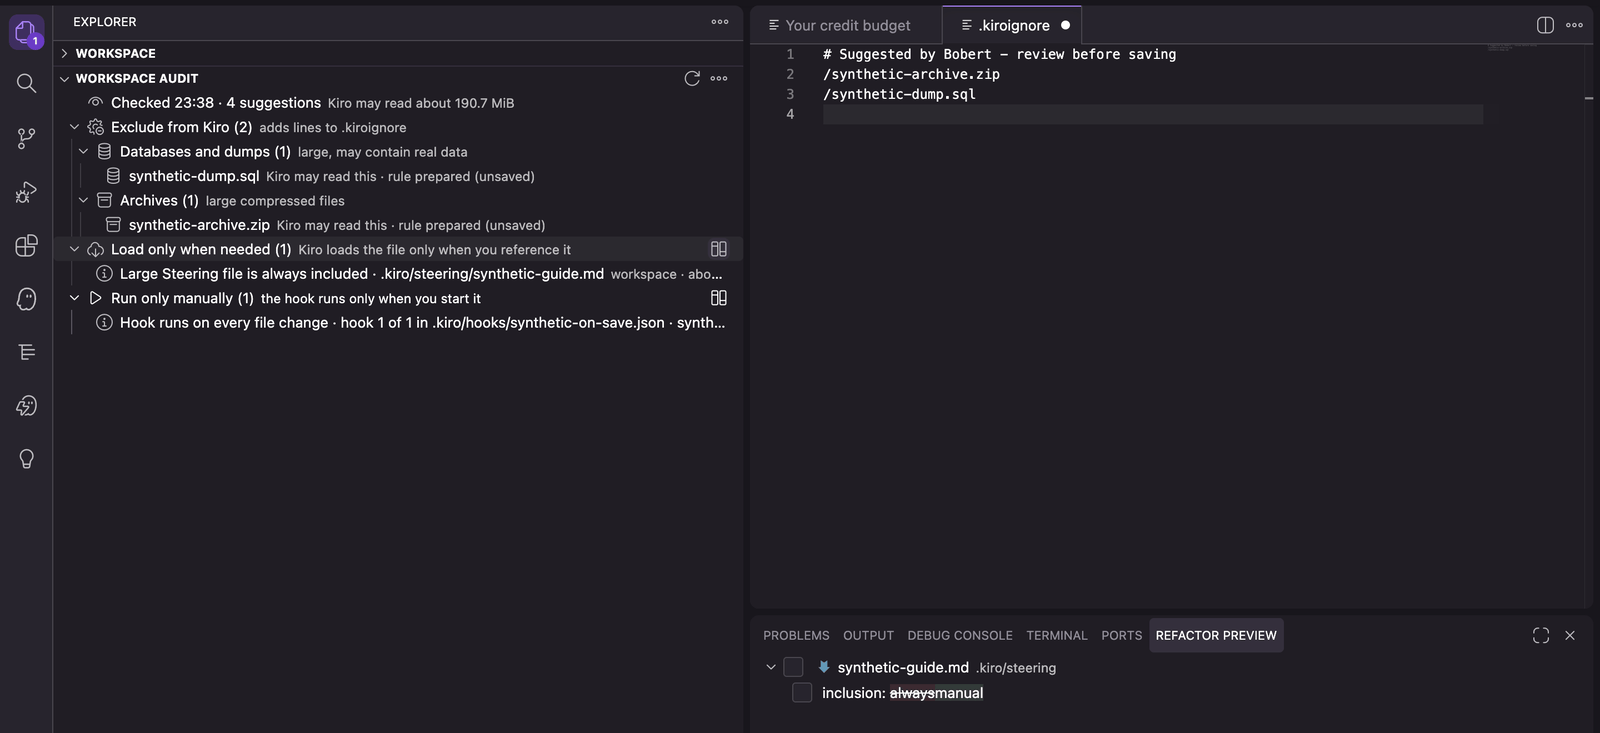
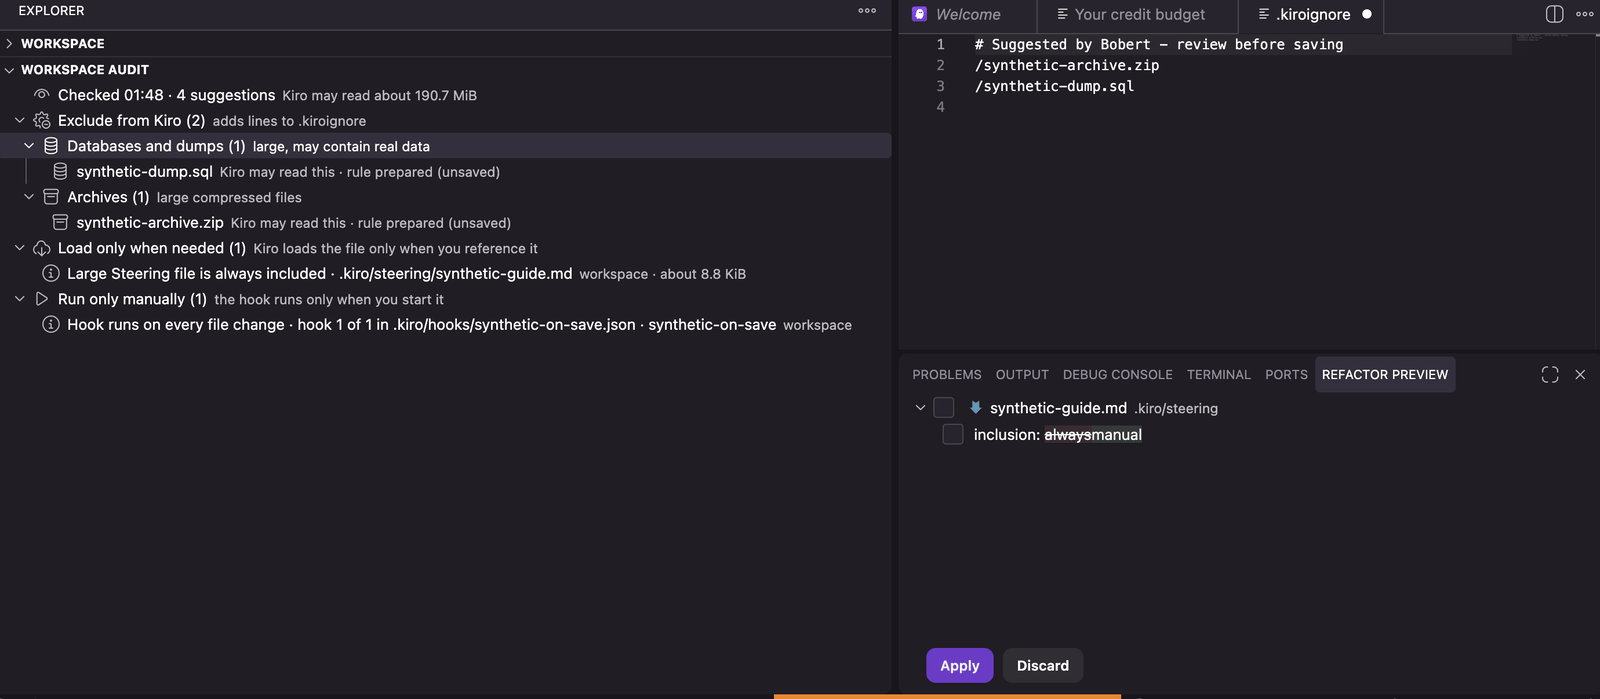
docs(media): recapture README images and story GIF from the release candidate
Recaptured from the synthetic demo on the 1.0.0 candidate (invented data only): credit view with the
add-on credits line, budget notice with the status bar, Cost Advisor with the single recommendation,
Workspace Audit with prepared .kiroignore lines and the Steering change preview. New: a real
session hint (invented session) replaces the illustrated speech bubble in the story GIF, and the
README gets a session hint screenshot. The GIF is encoded at the displayed width (900 px).
Alt texts now match the figures in the images.

diff --git a/README.md b/README.md
@@ -14,7 +14,7 @@ Bobert looks like he has seen a ghost. He has: your credit forecast.
 Kiro tells you how many credits you have used. Bobert helps you plan ahead: whether they are likely to last until the reset and what additional credits could cost. It also highlights files and automatic hooks worth reviewing. Start with your credit budget in the status bar.
 
 <p align="center">
-  <img src="https://raw.githubusercontent.com/StefanSuess/Bobert/main/docs/media/demo.gif" alt="Animated story with invented data: Bobert, a robot with a gauge for a mouth, watches the Kiro credit meter drain to 0% before the reset; a notice warns five days before the credits run out; the credit view shows a modelled cost of about $38 for credits beyond the reported limit; a speech bubble shows the model hint that a pricier model uses more credits than Auto; the workspace audit finds 190 MB of dumps and a hook that runs on every change; Bobert prepares the fix for review; the end card types Bobert into an extensions search box." width="900">
+  <img src="https://raw.githubusercontent.com/StefanSuess/Bobert/main/docs/media/demo.gif" alt="Animated story with invented data: Bobert, a robot with a gauge for a mouth, watches the Kiro credit meter drain to 0% before the reset; a notice warns five days before the credits run out; the credit view shows a modelled cost of about $38 for the add-on credits that would avoid running out; a notice shows the model hint that a pricier model uses more credits than Auto; the workspace audit finds 190 MB of dumps and a hook that runs on every change; Bobert prepares the fix for review; the end card types Bobert into an extensions search box." width="900">
 </p>
 
 ## Why you'll want it
@@ -29,26 +29,30 @@ Kiro tells you how many credits you have used. Bobert helps you plan ahead: whet
 Free and open source, with no account, no sign-in and no telemetry. Everything stays on your machine, and Kiro's files are only ever read.
 
 <p align="center">
-  <img src="https://raw.githubusercontent.com/StefanSuess/Bobert/main/docs/media/credit-view.png" alt="Bobert credit view with invented data: Likely to exceed, 3810 of 5000 reported credits used, the credits run out on 27 Oct before the 1 Nov reset, a modelled overage of about 958 credits (about $38.33), and the usage chart with forecast lines. No real account information is shown." width="900">
+  <img src="https://raw.githubusercontent.com/StefanSuess/Bobert/main/docs/media/credit-view.png" alt="Bobert credit view in Kiro with invented data: Likely to exceed, 4210 of 5000 reported credits used, the credits run out on 27 Oct before the 1 Nov reset, about 950 add-on credits (about $37.98, modelled) needed to avoid running out, and the usage chart with forecast lines, with the status bar warning below. No real account information is shown." width="900">
 </p>
 
 <details>
-<summary><b>More screenshots:</b> budget notice, Cost Advisor, workspace audit, Steering and Hooks review</summary>
+<summary><b>More screenshots:</b> budget notice, Cost Advisor, workspace audit, Steering and Hooks review, session hint</summary>
 
 <p align="center">
-  <img src="https://raw.githubusercontent.com/StefanSuess/Bobert/main/docs/media/budget-notice.png" alt="Bobert, a worried robot with a gauge for a mouth, next to a notice with invented data: at this pace the Kiro credits run out on 27 Oct, 5 days before the reset (about $38.33 over the limit, modelled), with Show details and Turn off budget notices buttons." width="700">
+  <img src="https://raw.githubusercontent.com/StefanSuess/Bobert/main/docs/media/budget-notice.png" alt="Budget notice and status bar with invented data: at this pace the Kiro credits run out on 27 Oct, 5 days before the reset (about $37.98 over the limit, modelled), with Show details and Turn off budget notices buttons, above the warning status bar item Kiro credits: Likely to exceed, runs out 27 Oct." width="900">
 </p>
 
 <p align="center">
-  <img src="https://raw.githubusercontent.com/StefanSuess/Bobert/main/docs/media/cost-advisor.png" alt="Cost Advisor in the credit view with invented data: likely plan Pro Max (unconfirmed), based on assumptions, an $80 modelled saving per billing cycle by moving from Pro Max to Pro, with the note that it is modelled from list prices, not a guarantee and not an invoice." width="760">
+  <img src="https://raw.githubusercontent.com/StefanSuess/Bobert/main/docs/media/cost-advisor.png" alt="Cost Advisor in the credit view with invented data: your plan Pro Max, assumed from the 5,000-credit limit, with Confirm and Change buttons, and the recommendation to stay on Pro Max and buy add-on credits as needed for about $131.64 a month, with the note that it is an estimate from list prices before tax, not a guarantee." width="760">
 </p>
 
 <p align="center">
-  <img src="https://raw.githubusercontent.com/StefanSuess/Bobert/main/docs/media/workspace-audit.png" alt="Workspace Audit view with invented files: 4 suggestions, Kiro may read about 190.7 MiB, a database dump and an archive to exclude, a large always-included Steering file and a hook that runs on every file change, beside the prepared .kiroignore lines that stay unsaved until you save them." width="900">
+  <img src="https://raw.githubusercontent.com/StefanSuess/Bobert/main/docs/media/workspace-audit.png" alt="Workspace Audit view with invented files: 4 suggestions, Kiro may read about 190.7 MiB, a database dump and an archive to exclude with their rules prepared but unsaved, a large always-included Steering file to load only when needed and a hook that runs on every file change, beside the prepared .kiroignore lines that stay unsaved until you save them." width="900">
 </p>
 
 <p align="center">
-  <img src="https://raw.githubusercontent.com/StefanSuess/Bobert/main/docs/media/steering-hooks.png" alt="Steering and Hooks review with invented files: a large always-included Steering file and a hook that runs on every file change, with Kiro's change preview switching the Steering file from inclusion always to manual." width="900">
+  <img src="https://raw.githubusercontent.com/StefanSuess/Bobert/main/docs/media/steering-hooks.png" alt="Steering and Hooks review with invented files: a large always-included Steering file and a hook that runs on every file change, with Kiro's refactor preview switching the Steering file from inclusion always to manual, with Apply and Discard buttons." width="900">
+</p>
+
+<p align="center">
+  <img src="https://raw.githubusercontent.com/StefanSuess/Bobert/main/docs/media/session-hint.png" alt="Session hint with invented data: your Kiro credit budget is tight and your most recent session in this workspace uses Claude Opus 4.8, which Kiro lists at about 2.2x the credits of Auto (Kiro model table, as of 2026-10-18), with Show credit budget, Tips and Turn off session hints buttons." width="760">
 </p>
 
 </details>
